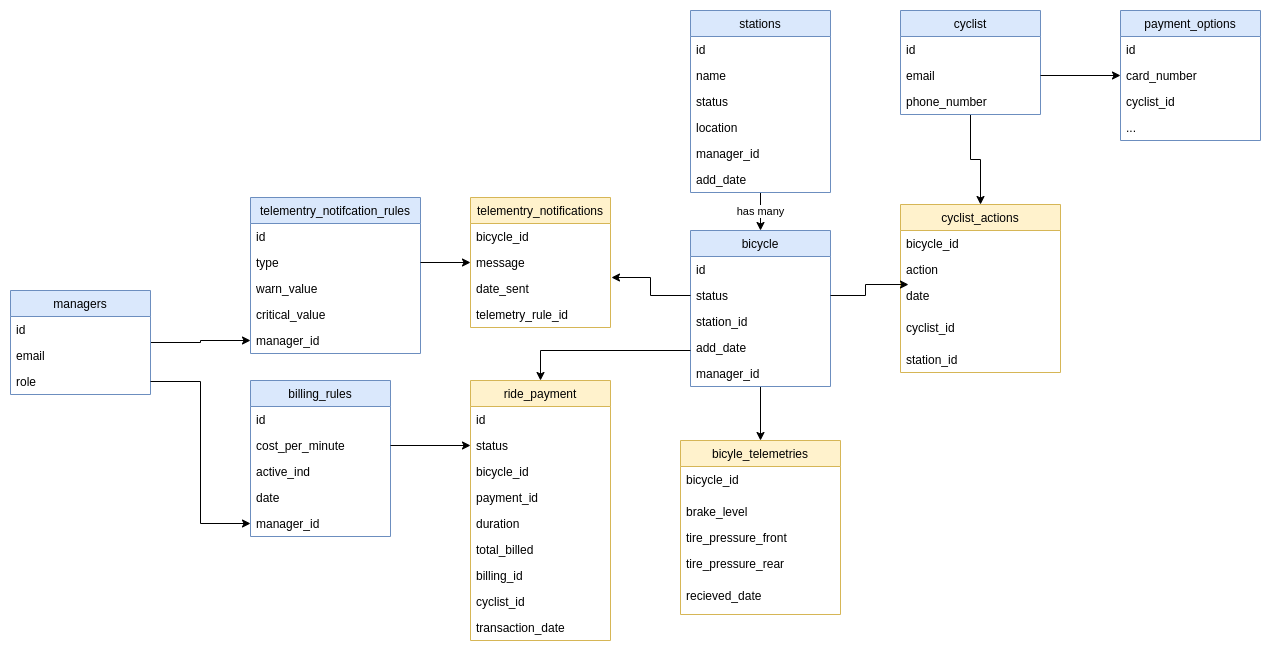
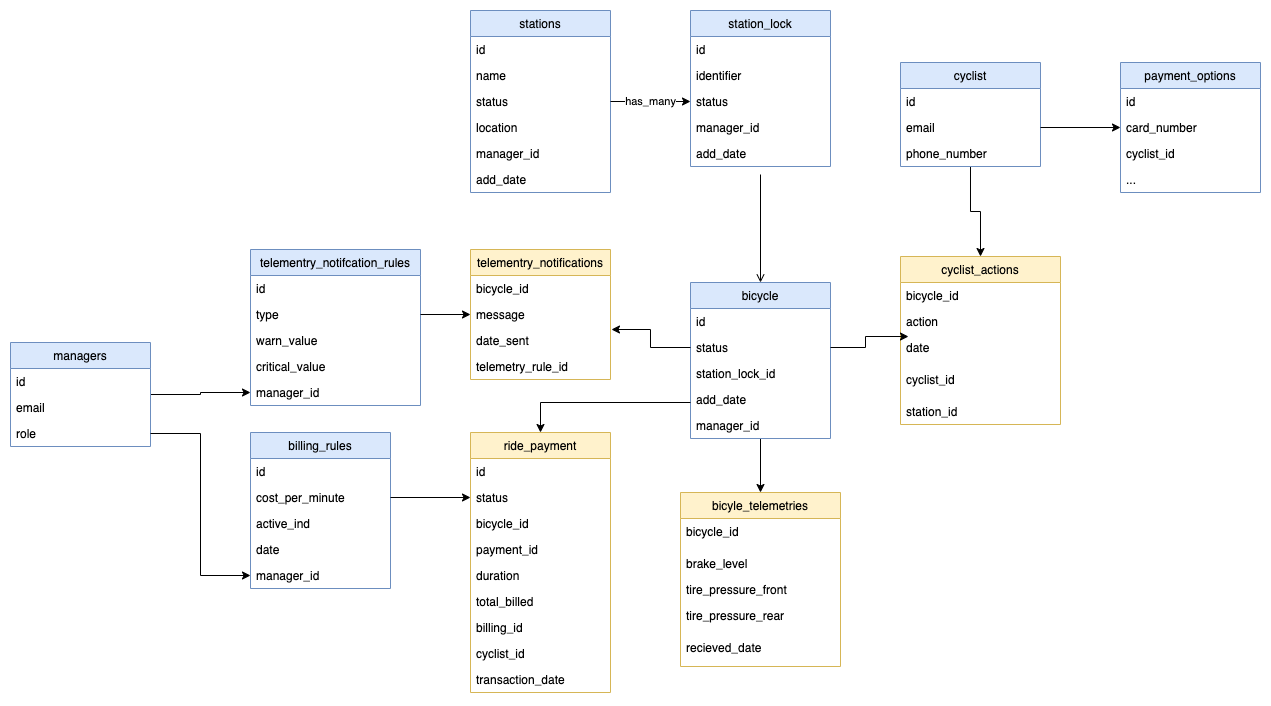
Update add deployment refit a few things

diff --git a/design.md b/design.md
@@ -13,7 +13,6 @@ can manage inventory to prevent both overcrowding and scarcity.
 fitted with a series of sensors that send Bicicletas Bogota information about the bike
 condition (brake levels, tire pressure for front & rear tires, etc.) every 60 seconds.
 
-
 ## Assumptions
 
 These are the assumptions that need validation, but what I'm assuming in this design. 
@@ -69,7 +68,7 @@ There are two workflows when coming into the application the user will have the 
 
 After successfully loading the user and validating payment information the user is then presented to the next step. 
 
-The application will allow the user to select a station, or in the case of the terminal will present them with the current station. The station will have  
+The application will allow the user to select a station, or in the case of the terminal will present them with the current station. The station will have a kiosk mode that will only present it's stations 
 
 The application will make a GET `/station/checkout` request with the users location to the Biking Services backend.
 
@@ -93,17 +92,15 @@ The application will be given a list of stations that are available to check the
 
 The service will charge the customer based on the duration, and write to the database recording what user, bike, and end time. It will also mark the bike as checked in.
 
-
 ### Management Web Application
 
 The Management Web application will be used by the administers of the system. There are a few different type of administrators. The application will provide a view for each. It will also be a mobile application as many of the users will likely be on the move either working on bicycles or moving/managing them. 
 
-
-* Capacity Mangers - Provide the utilization rates of bicyles at each station and show how many are currently available at each station so they can make decisions on how to supply bicyles. This view will also allow managers to add or remove bicyles from the stations. They could access this on the go to make changes while they are at the station. 
+* Capacity Mangers - Provide the utilization rates of bicycles at each station and show how many are currently available at each station so they can make decisions on how to supply bicycles. This view will also allow managers to add or remove bicycles from the stations. They could access this on the go to make changes while they are at the station. 
 
 * Technicians - View which shows bicycles status by station and can quickly see what is in need or will soon need service. It will also allow technicians to mark bicycles as unavailable so they can keep users from checking them out while they are en route to work on them. 
 
-* Billing Department - Provide an interface which shows how much money is being made over time, and allow the biling department to adjust the cost. Further discussion on if there is need for tuning of the prices by day/hour/etc. We will assume a flat rate.
+* Billing Department - Provide an interface which shows how much money is being made over time, and allow the billing department to adjust the cost. Further discussion on if there is need for tuning of the prices by day/hour/etc. We will assume a flat rate.
 
 This will need to be an authenticated application which allows only those with access in. There will need to be admin functions for those to add new users and assign them roles so they only have functions to the appropriate views. The roles will line up with what is listed above in addition to a admin who can view all. 
 
@@ -112,13 +109,15 @@ Interactions will be described in the services section. User interfaces will sup
 
 ### Services
 
-There will be 3 distinct services for handling the business logic between the client applications and the database. Each service will be act independtly but operate on the same database. This is so we can minimize impact of changes and keep responsibliites cleanly seperated. 
+There will be 2 services for handling the business logic between the client applications and the database. 
 
-These will be HTTP servers written in something such as GO to be lightweight, memory efficient and scale well. 
+These will be HTTP servers written in something such as GO to be lightweight, memory efficient and scale well. It would make sense to use an ORM since the data is relational in nature. The frontend and backend will communicate in a consistent JSON structure. 
 
-### Biking Services
+The monitoring services has been separated out because it will be dealing with much higher traffic from all the monitoring posts coming from thing bicycles. It will load a cache of the rules on startup and will have an endpoint to cache bust when an update is made from the biking and reporting services backend. 
 
-The biking services will serve the mobile application for cycists. It will handle the follow transactions.
+### Biking & Reporting Services Backend
+
+The biking services will serve the mobile application for cyclists. It will handle the follow transactions. We will have RESTful endpoints for the models as showing in the [Database Design](#database-design). I'm outlining the endpoints below
 
 `GET /station/` - Gets a station an a list of bicycles available for checkout based on status. Along with current billing cost. 
 
@@ -127,82 +126,133 @@ The biking services will serve the mobile application for cycists. It will handl
 
 `POST /station/checkout` - Marks a bicycle as checked out, and enters a row in cyclist_actions indicating it's checked out. 
 
-    Parameters - Station ID, User ID, Bicycle ID
+    Parameters - Station ID, Station Lock ID, User ID, Bicycle ID
     Reply - Start Date Time
 
 `POST /station/checkin` - Marks a bicycle as checked in, and then process payment for the user. 
 
-
-### Reporting Services
+    Parameters - Station ID, Station Lock ID, User ID, Bicycle ID
+    Reply - Cost
 
 The reporting services will need to be aware of the role of the user to ensure the have access to each action they are taking. I've grouped these actions under their respective roles here. 
 
 #### Technicians 
 
-`GET /bicycles/` - Returns a list of all stations and bicycles with their current telemtry and and status based on telemetry rules
+`GET /bicycles/` - Returns a list of all stations and bicycles with their current telemetry and and status based on telemetry rules
 
     Parameters - User ID
     Reply - Stations -> Bicycles -> Telementry and any Status
 
-`POST /bicycle/status` - Sets a bicycle to a status indicated by the technician. To take it out of servie or put back in. 
+`POST /bicycle/status` - Sets a bicycle to a status indicated by the technician. To take it out of service or put back in. 
 
-`POST /telemetry` - Allows user to technicians to create new telemetry rules. Rules will be inactivated instead of deleted to preserve relationships to notifications. Examples would be. Brake Level too low, Tire pressure too low, location not in range of station (STOLEN!)
+`POST /telemetry` - Allows user to technicians to create new telemetry rules. Rules will be inactivated instead of deleted to preserve relationships to notifications. Examples would be. Brake Level too low, Tire pressure too low.
 
     Parameters - User ID, Telemtry Type, Warning Value, Critical Value
     Reply - Success/Failure
 
-#### Billing 
+#### Billing
 
 `GET /billing` - Returns billing information for the past specified days. Can be used to report on how much revenue is being generated. 
 
     Parameters - User ID, Start Date, End Date
     Reply - List of transactions with cyclists, duration, and billed amount as well as the current cost per minute. 
 
-`POST /billing` - Creates a new billing_rule that goes into effect for new bike riders. Billing rules are never deleted only inactivated to preserve relationships and history. 
+`POST/DELETE /billing` - Creates a new billing_rule that goes into effect for new bike riders. Billing rules are never deleted only inactivated to preserve relationships and history.
 
 #### Capacity Managers
 
-`GET /cyclist/actions` - Returns a list of cyclist actions over a time period that can be used to analyze the volume of actions taken at a given station. 
+`GET /cyclist/actions` - Returns a list of cyclist actions over a time period that can be used to analyze the volume of actions taken at a given station.
 
     Parameters - User ID, Start Date, End Date
     Response - List of actions over the given time period. Along with relevant station and bicycle information. 
 
-`POST /bicycle` - Add/Remove a bicycle to a station. A bicycle would never be removed, it could be retired from action though. 
+`POST/DELETE /bicycle` - Add/Remove a bicycle to a station. A bicycle would never be removed, it could be retired from action though.
 
-    Parameters - User ID, Station_ID
+    Parameters - User ID, Station_ID, Bicycle ID (not passedo for new)
     Response - Bicycle ID
 
-`POST /station` - Add/Remove a station. Stations would never be removed. Could be retired. 
+`POST/DELETE /station` - Add/Remove a station. Stations would never be removed. Could be retired.
 
-    Parameters - User ID,
+    Parameters - User ID, Station_id (not passed for new)
     Response - Station ID
 
+`POST/DELETE /station_lock` - Add/Remove a station lock. Stations locks would never be removed. Could be retired.
+
+    Parameters - User ID, station_lock_id (not passed for new)
+    Response - Station ID 
+
+#### Monitoring Services System
+
+`GET /bicycle/telemetry`
+
+    Returns a list of telemetry rules that have been created. 
+
+`POST /bicycle/telemetry`
+
+    Takes a list of telemetries and persist them to the bicycle_telemtry table. 
+
+`POST /bicycle/telemetry_notification`
+
+
+    This endpoint will record the current telemetry for a bicycle and evaluate the given rules to determine if a notification should be sent to the technicians. 
+
+    Parameters - Bicycle ID, Brake Level, Tire Pressure Front, Location, etc.. 
+    Response -  Success
+
+    
 ### Monitoring Services
 
-The monitoring services exist as an interface for the bicycles themselves to record telementry and be aware of bike status. The services also will watch telemetry and generate telemetry notifications which will be sent to the managers in the system with a role of tehnician based on the rules defined. 
+The monitoring services exist as an interface for the bicycles themselves to record telemetry and be aware of bike status. The services also will watch telemetry and generate telemetry notifications which will be sent to the managers in the system with a role of technician based on the rules defined.
 
-In order to ensure telemetry notification delivery we should consider using a job queue system for sending mail in case of failures. 
+The service will load the rules, and the list of technicians into cache on server load.
 
-`POST /bicycle/telemetry` - This endpoint will record the current telementry for a bicycle and evaluate the given rules to determine if a notification should be sent to the technicians. If so it will write a wrote to the bicycle_telemetries and deliver the message. 
+In order to ensure telemetry notification delivery we should consider using a job queue system for sending mail in case of failures.
+
+During operation as the endpoint is recieving telemtries and evaluating it will cache up a portion of rules and then flush them to disk when a certain number of an amount of time has passed. It will then proxy a request to the bicycle services backend to persist and flush it from cache. 
+
+`POST /bicycle/telemetry` - 
+    Evaluates the telemetry against the a cached set of rules. IF there is a notification it will get proxied over to the bicycle services to persist to the DB, it will then queue the notification for delivery to the technicians. 
 
     Parameters - Bicycle ID, Brake Level, Tire Pressure Front, Location, etc.. 
     Response -  Success
 
 ### Database Design
 
-Below is a high level database design to cover what all is stored in the system. The data model indicates reference tables with blue, and ativity tables with yellow. 
+Below is a high level database design to cover what all is stored in the system. The data model indicates reference tables with blue, and activity tables with yellow.
 
-Not all relationships are drawn for simplicity. This communicates the core relationships between the models. 
+Not all relationships are drawn for simplicity. This communicates the core relationships between the models.
 
-The bicycle_telemetries table will need to be partitioned one date such that we're able to maintain performance. We should also consider archiving the data after a certain amount of time. 
+The bicycle_telemetries table will need to be partitioned one date such that we're able to maintain performance. We should also consider archiving the data after a certain amount of time.
 
 ![High Level Diagram](./images/database.png)
 
 
+### Deployment
 
-### Additional Considerations 
+This section will cover how the services will deployed and made available. 
 
-- Need to understand expected volume of cyclists and bicycles to take into consideration how many requests we will be handling. This could have further impact on scaling and size of services and databases
-- Database will need to have regular backups in case of failure. 
-- Consider a reporting database as volume grows. Especially for telementries as the volumen will be quite high with each bicyle checking in every 60 seconds. 
-- All services will have monitoring in place to let technial team know about failures proactively to engage and fix. 
+One thing to consider for these services, is that even in the case where we consider that cyclist could bike 24 hours a day there will be a significant drop off in activity during the night. This gives us some considerations to use scaling to save costs when there is lower activity in the system.
+
+We have 3 conatiners that will need deployed. We will containerize all of our front end and backend services and use full VMs for Redis and the Database (Postgres DB)
+
+#### Kubernetes
+
+Deploy in a Kubernetes Cluster in a cloud vendor. They all have it. We can use horizontal autoscaling to make sure containers scale out during times of high traffic weekends, and daytime. This also allows us to keep cost down when it's not needed. At a minimum we should keep 2 containers up at all times in case of a failure. 
+
+* Management Web App front end
+* Cyclist Web App front end
+* Bicycle Backend
+* Monitoring Services
+  
+#### VM or Cloud Specific Services
+
+In general Kubernetes does not do great with persistant services. These are important non-disposable entity in the system and should be treated so. Using native services usually come with benefits of automatic backups, ability to scale on demand etc.. If needed to scale we will evalaute and do so as time goes on. 
+
+* Redis High Availability
+* Postgres DB
+
+### Additional Considerations
+
+* Need to understand expected volume of cyclists and bicycles to take into consideration how many requests we will be handling. This could have further impact on scaling and size of services and databases
+* Consider a reporting database as volume grows. Especially for telemetries as the volume will be quite high with each bicycle checking in every 60 seconds.
+* All services will have monitoring in place to let technical team know about failures proactively to engage and fix. 
